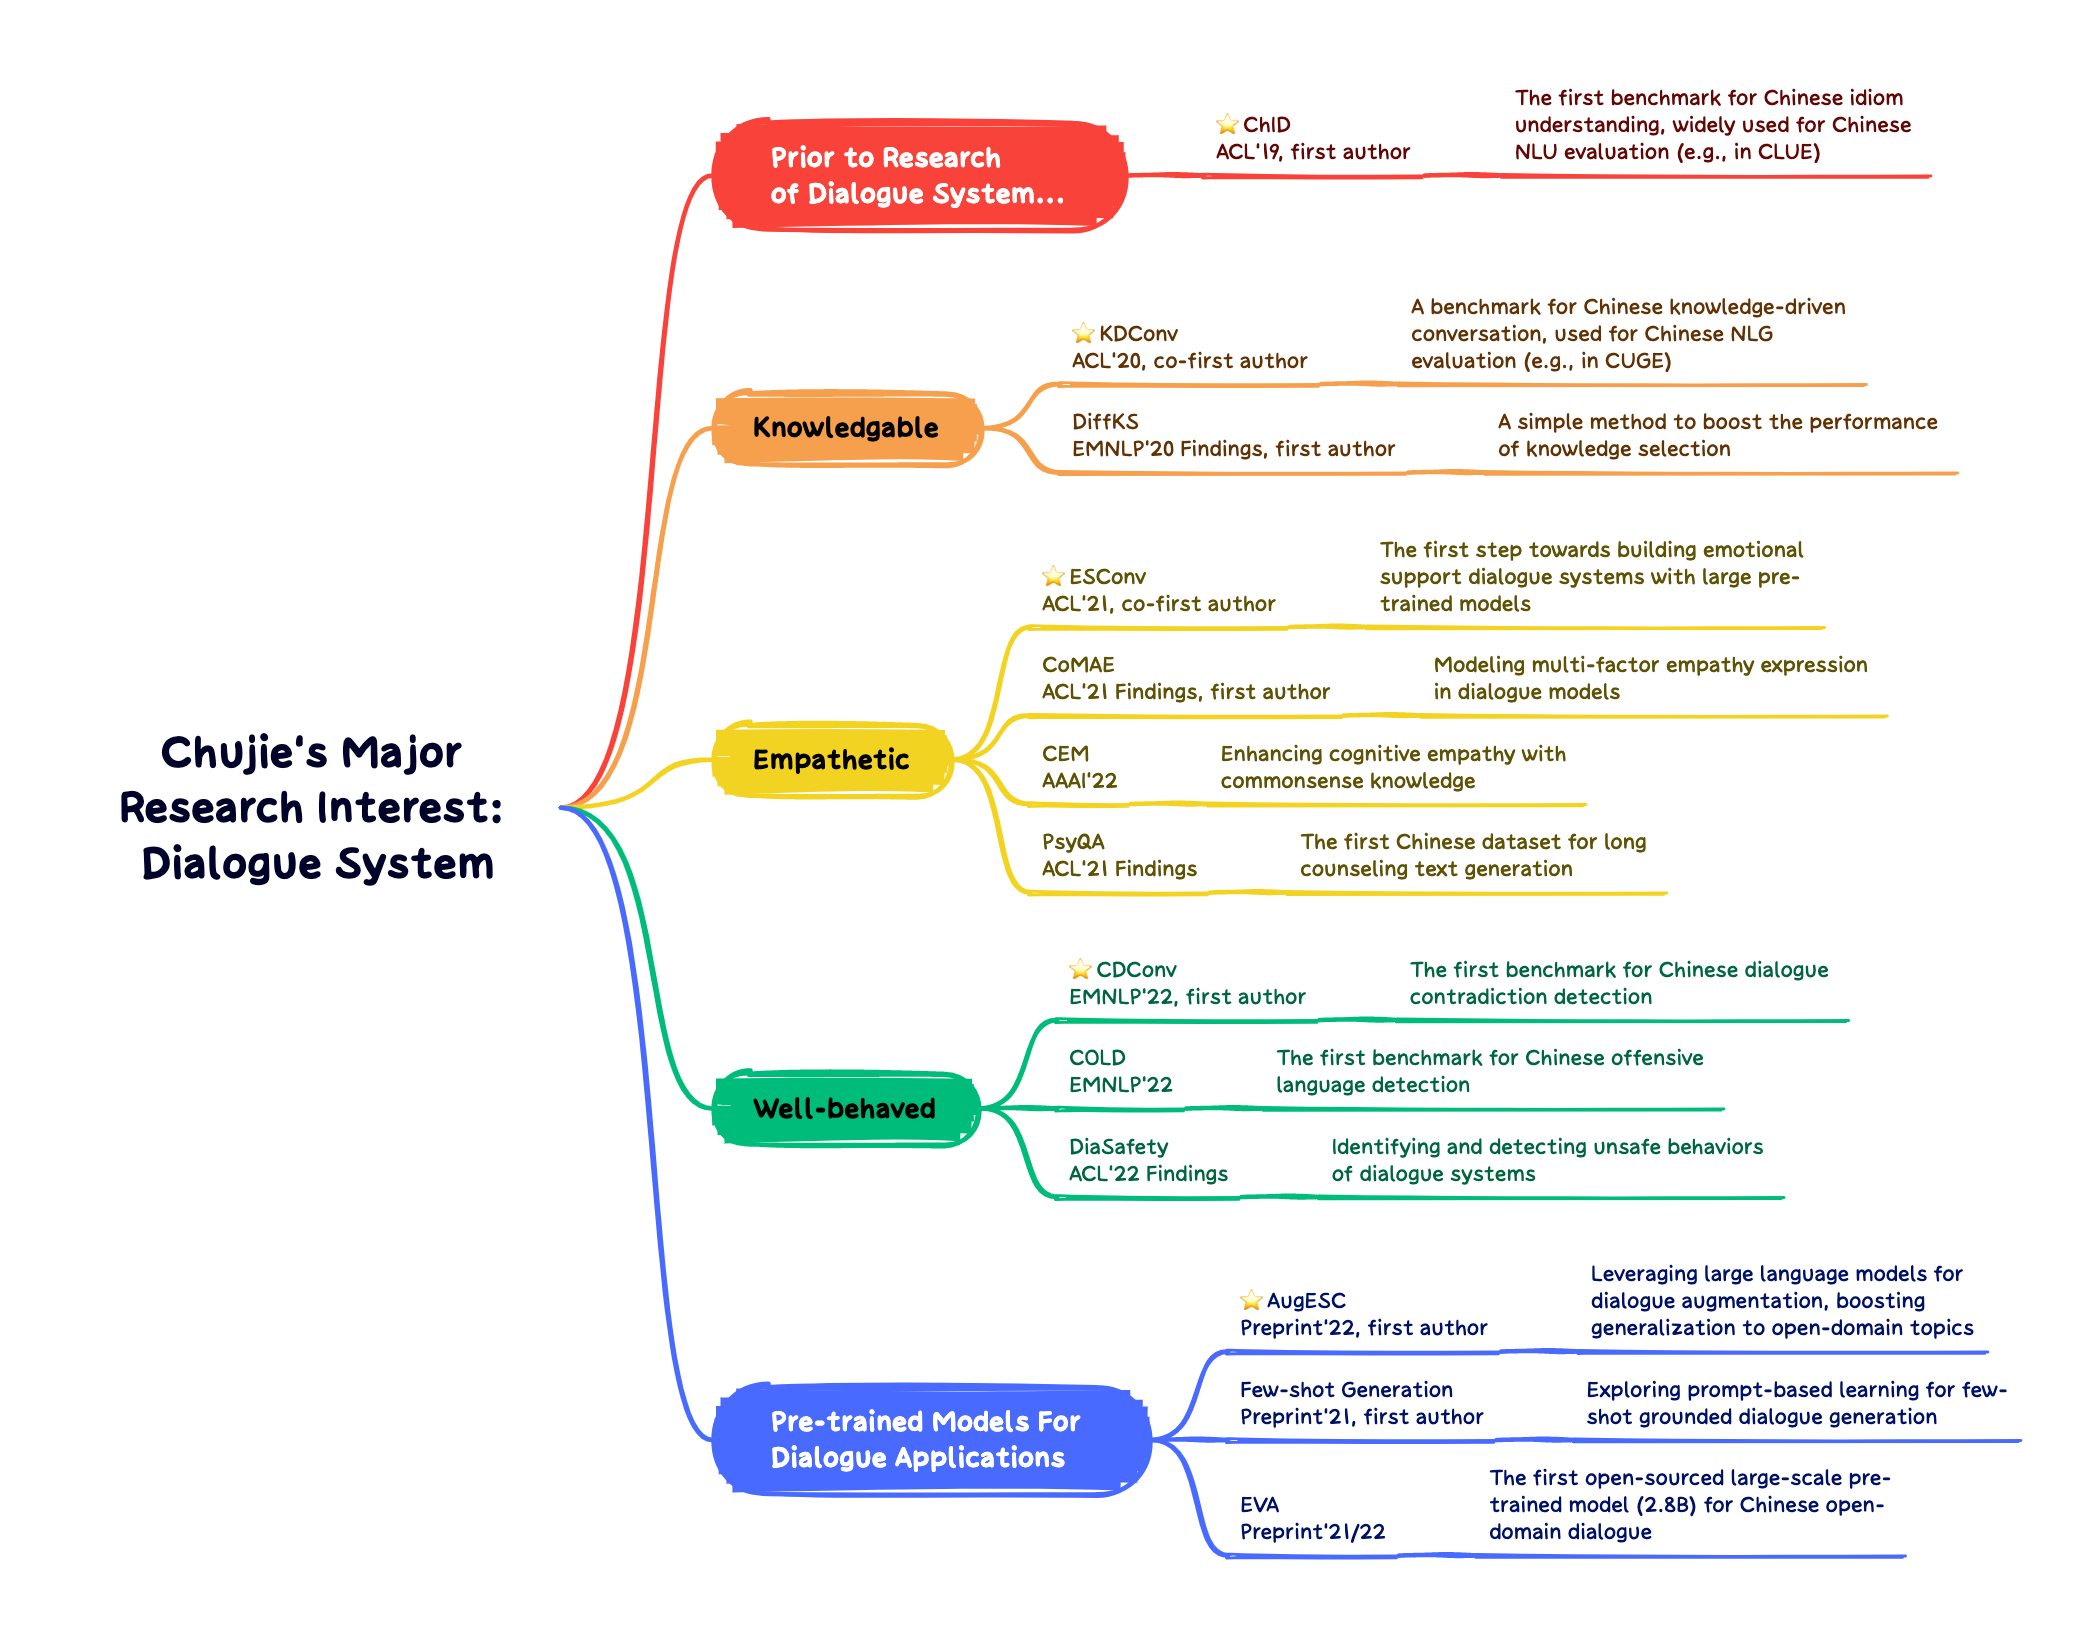
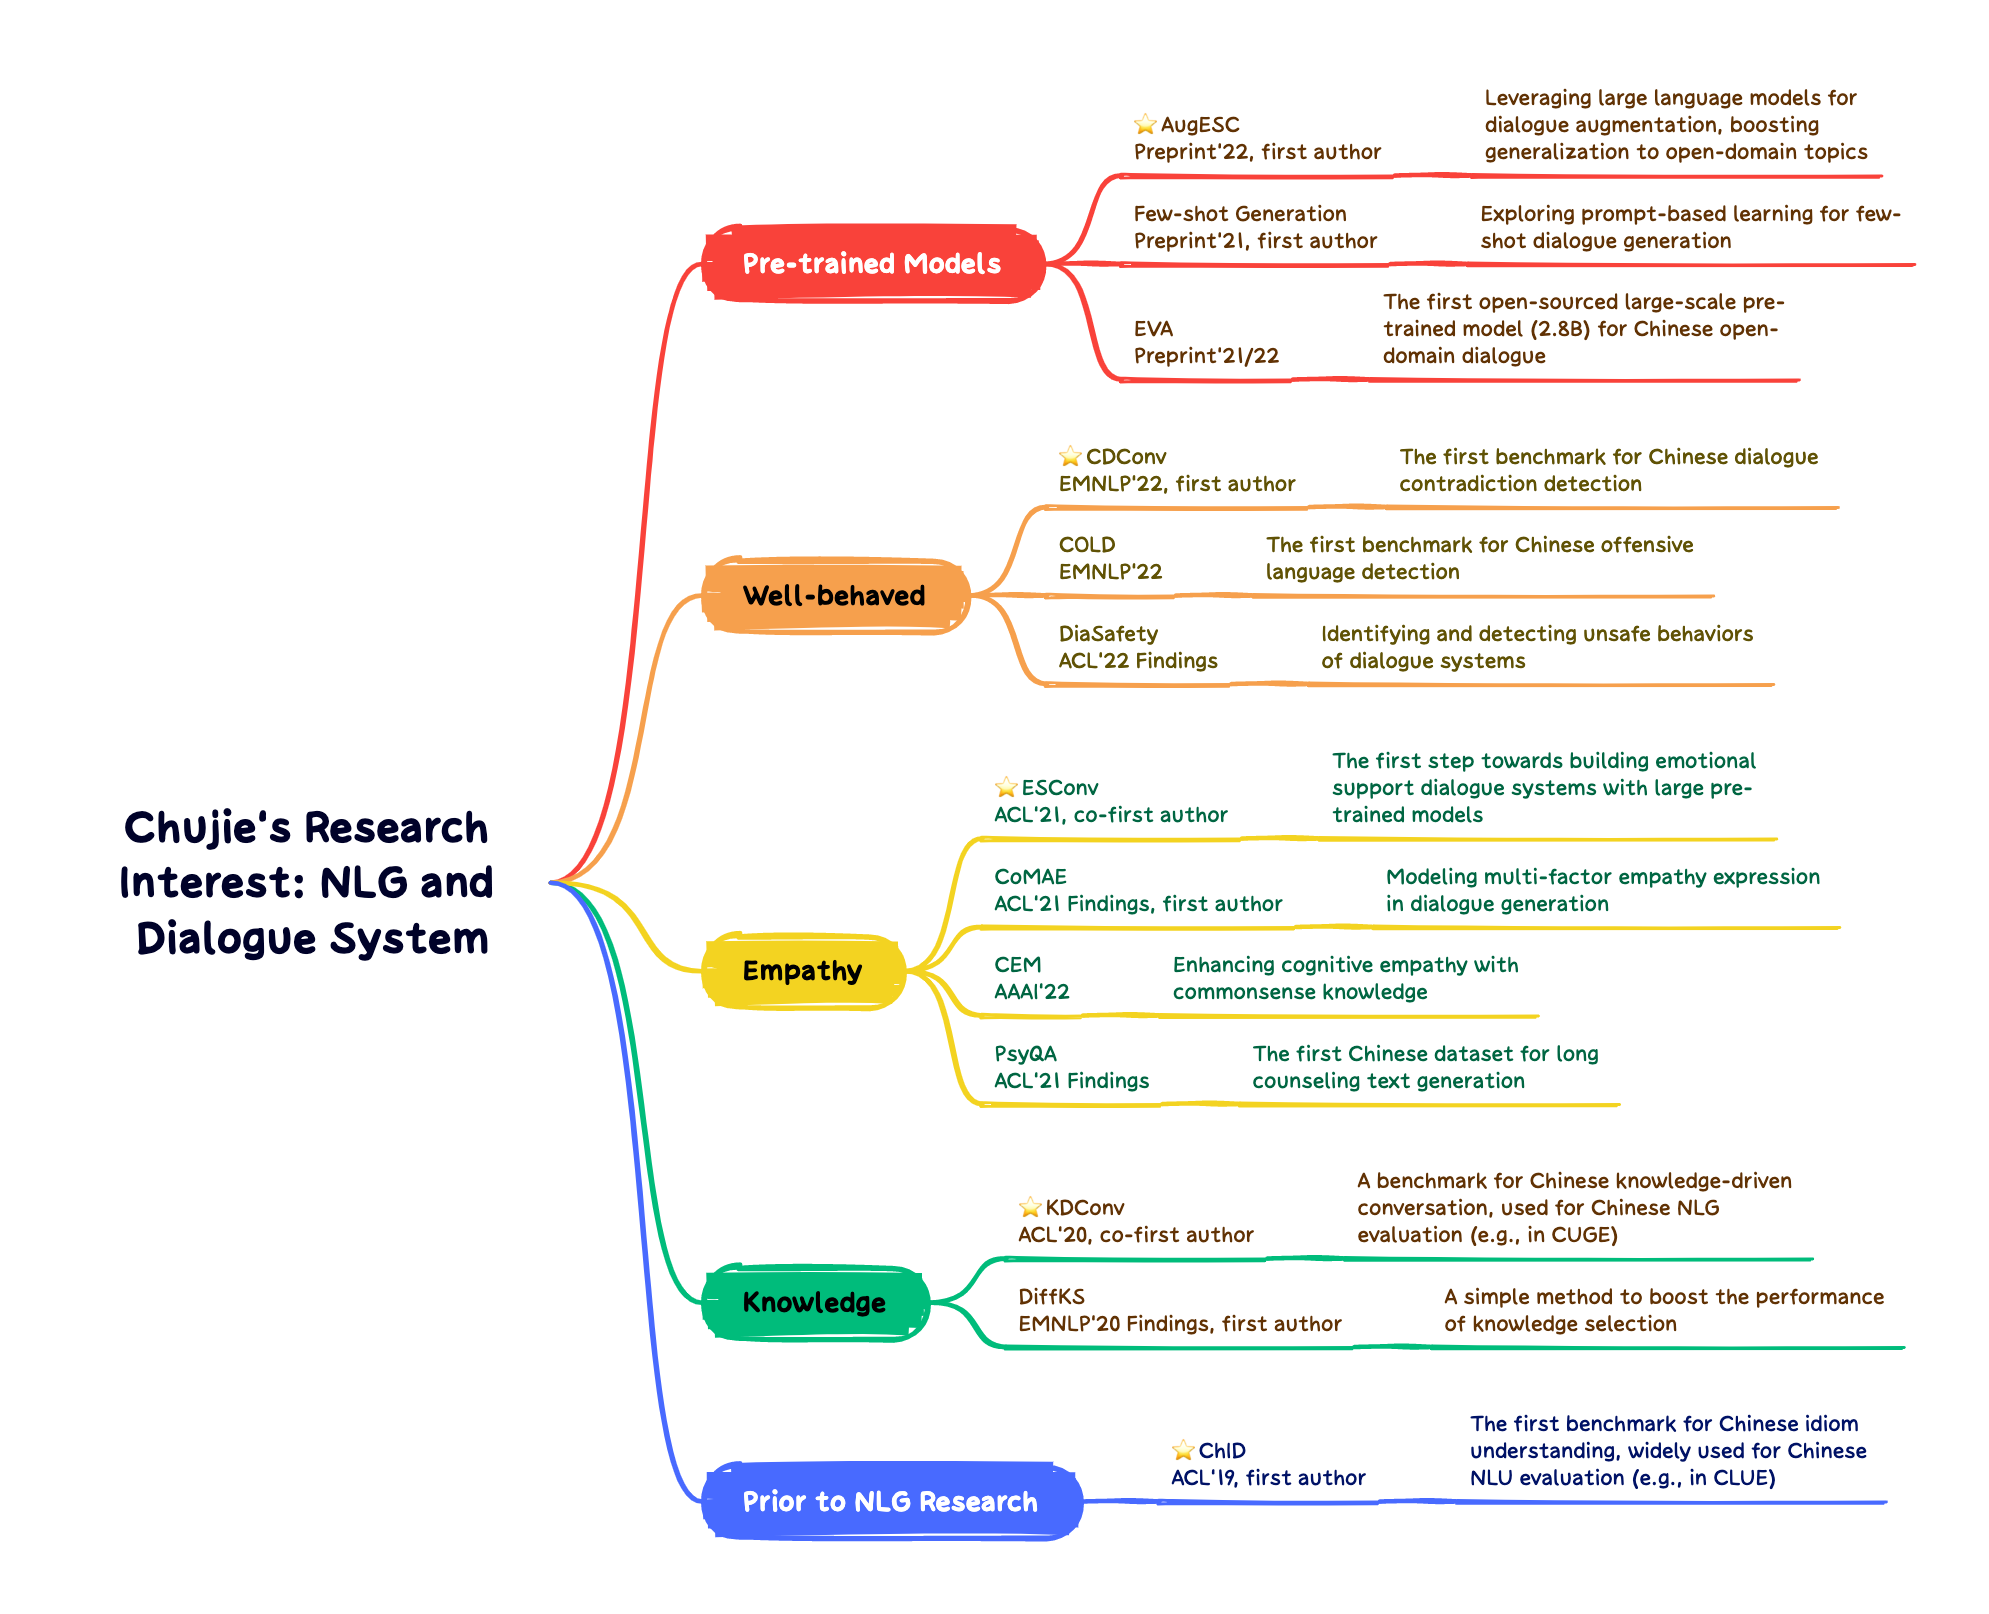
update homepage

Changed region(s): [[0.2805, 0.031, 0.9663, 0.9603], [0.0623, 0.4337, 0.2494, 0.5886]]

diff --git a/_pages/about.md b/_pages/about.md
@@ -10,9 +10,7 @@ redirect_from:
 
 Welcome! I am a third-year Ph.D candidate of [THU CoAI group](http://coai.cs.tsinghua.edu.cn/), advised by [Prof. Minlie Huang](http://coai.cs.tsinghua.edu.cn/hml/). Prior to my Ph.D career, I received my B.Sc degree from Dept. of Physics, Tsinghua University.
 
-I have a broad research interest in **open-domain dialogue system and text generation**. I have been working to build knowledgeable, empathetic, and well-behaved systems. I am also particularly interested in data-efficient approaches and life-long learning methods toward this goal.
-
-I have built a series of **popular Chinese NLP / Dialogue benchmarks**, such as [**ChID**](https://github.com/chujiezheng/ChID-Dataset), [**KDConv**](https://github.com/thu-coai/KdConv), [**ESConv**](https://github.com/thu-coai/Emotional-Support-Conversation) and [**CDConv**](https://github.com/thu-coai/CDConv). I also co-built many fundamental resources, including the pre-trained model [EVA](https://github.com/thu-coai/EVA) and the datasets [PsyQA](https://github.com/thu-coai/PsyQA), [DiaSafety](https://github.com/thu-coai/DiaSafety), and [COLD](https://github.com/thu-coai/COLDataset). Proud to see these work promoting the advances of Chinese NLP / Dialogue research!
+I have a broad research interest in **natural language generation and dialogue system**. In the past years, I have built a series of **popular Chinese NLP / Dialogue benchmarks**, such as [**ChID**](https://github.com/chujiezheng/ChID-Dataset), [**KDConv**](https://github.com/thu-coai/KdConv), [**ESConv**](https://github.com/thu-coai/Emotional-Support-Conversation) and [**CDConv**](https://github.com/thu-coai/CDConv). I also co-built many fundamental resources, including the pre-trained model [EVA](https://github.com/thu-coai/EVA) and the datasets [PsyQA](https://github.com/thu-coai/PsyQA), [DiaSafety](https://github.com/thu-coai/DiaSafety), and [COLD](https://github.com/thu-coai/COLDataset). Proud to see these work promoting the advances of Chinese NLP / Dialogue research!
 
 The figure below gives an overview of my major research framework and projects. You can find my CV [**here** (English)](./cv_chujie_en.pdf).
 
